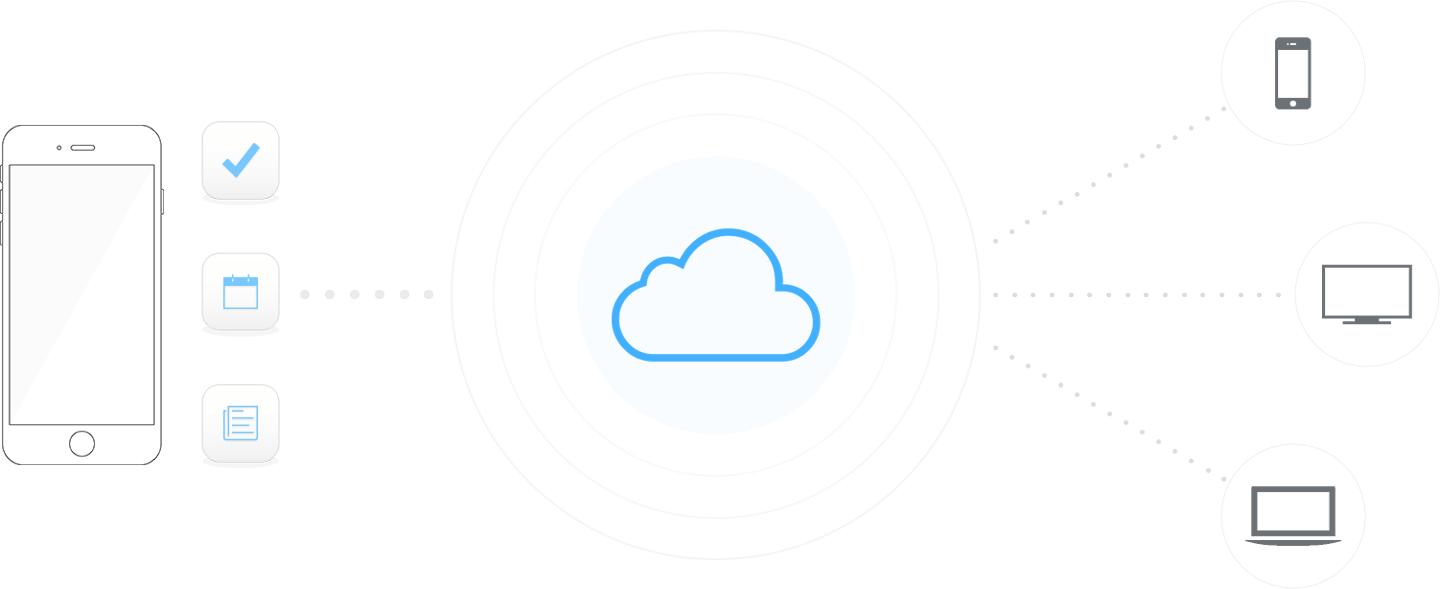
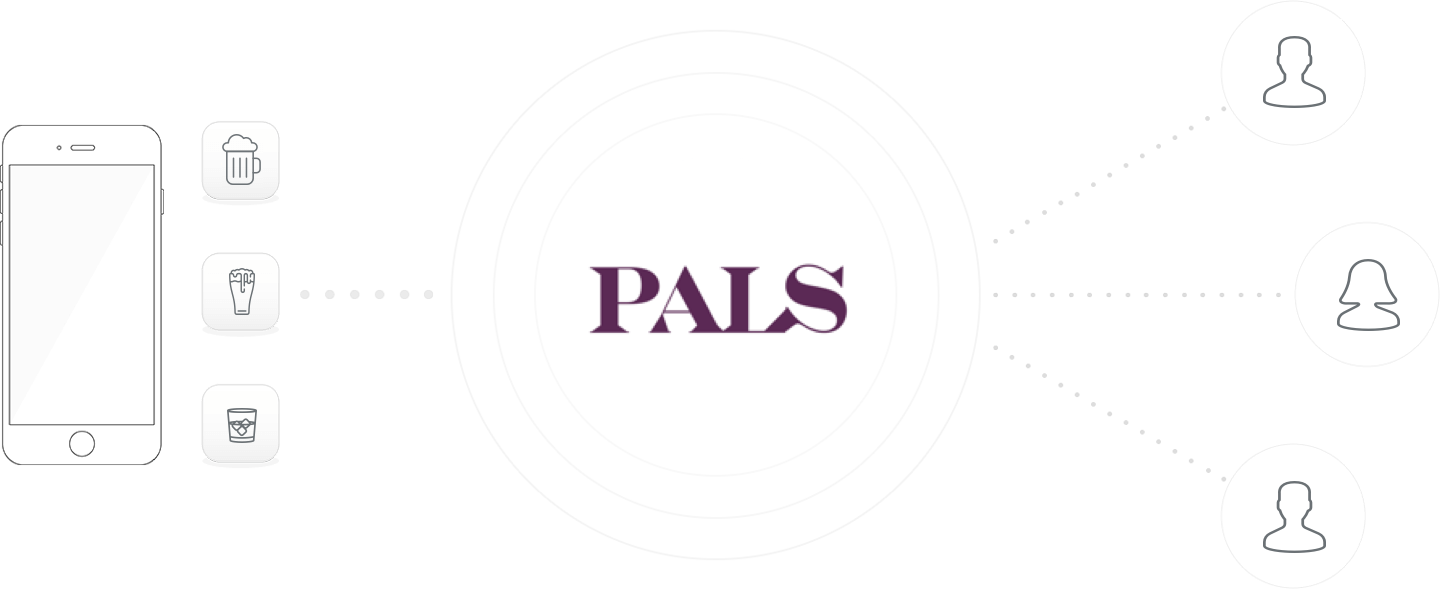
Add how it works section

diff --git a/index.html b/index.html
@@ -401,31 +401,28 @@
         <!-- #features5 end -->
         
         <!-- #howto -->
-<!--       <div id="howto" class="wrap-container80-rs">
+<div id="howto" class="wrap-container80-rs">
             
             <!-- .container -->
- <!--         <div class="container">
+      <div class="container">
                 
                 <div class="post-heading-center animation" data-animation="animation-fade-in-down">
-                    <h2>How our's <strong>App work?</strong></h2>
-                    <p>Lorem ipsum dolor sit amet, consectetur adipisicing elit, sed do eiusmod tempor incididunt<br>ut labore et dolore magna aliqua. Ut enim ad minim veniam.</p>
+                    <h2>Life is easy with <strong>PALS </strong></h2>
+                    <p>Simply order a drink through PALS and send it to any of your friends anywhere at anytime.</p>
                 </div>
                 
                 <figure class="animation" data-animation="animation-bounce-in">
                     <img src="images/content/landing/how-it-work.png" alt="Image" />
                 </figure>
                 
-                <p class="textcenter margin-top20 no-margin-bottom animation" data-animation="animation-fade-in-up">
-                    <a href="#" class="btn-custom">Learn More</a>
-                </p>
                 
             </div>
             <!-- .container end -->
             
- <!--      </div>
+</div>
         <!-- #howto end -->
         
- <!--    <div id="screenshots" class="bg-grey grey-color2 no-border-bottom wrap-container80-rs">
+<div id="screenshots" class="bg-grey grey-color2 no-border-bottom wrap-container80-rs">
             
  <!--           <!-- .container -->
  <!--         <div class="container">
